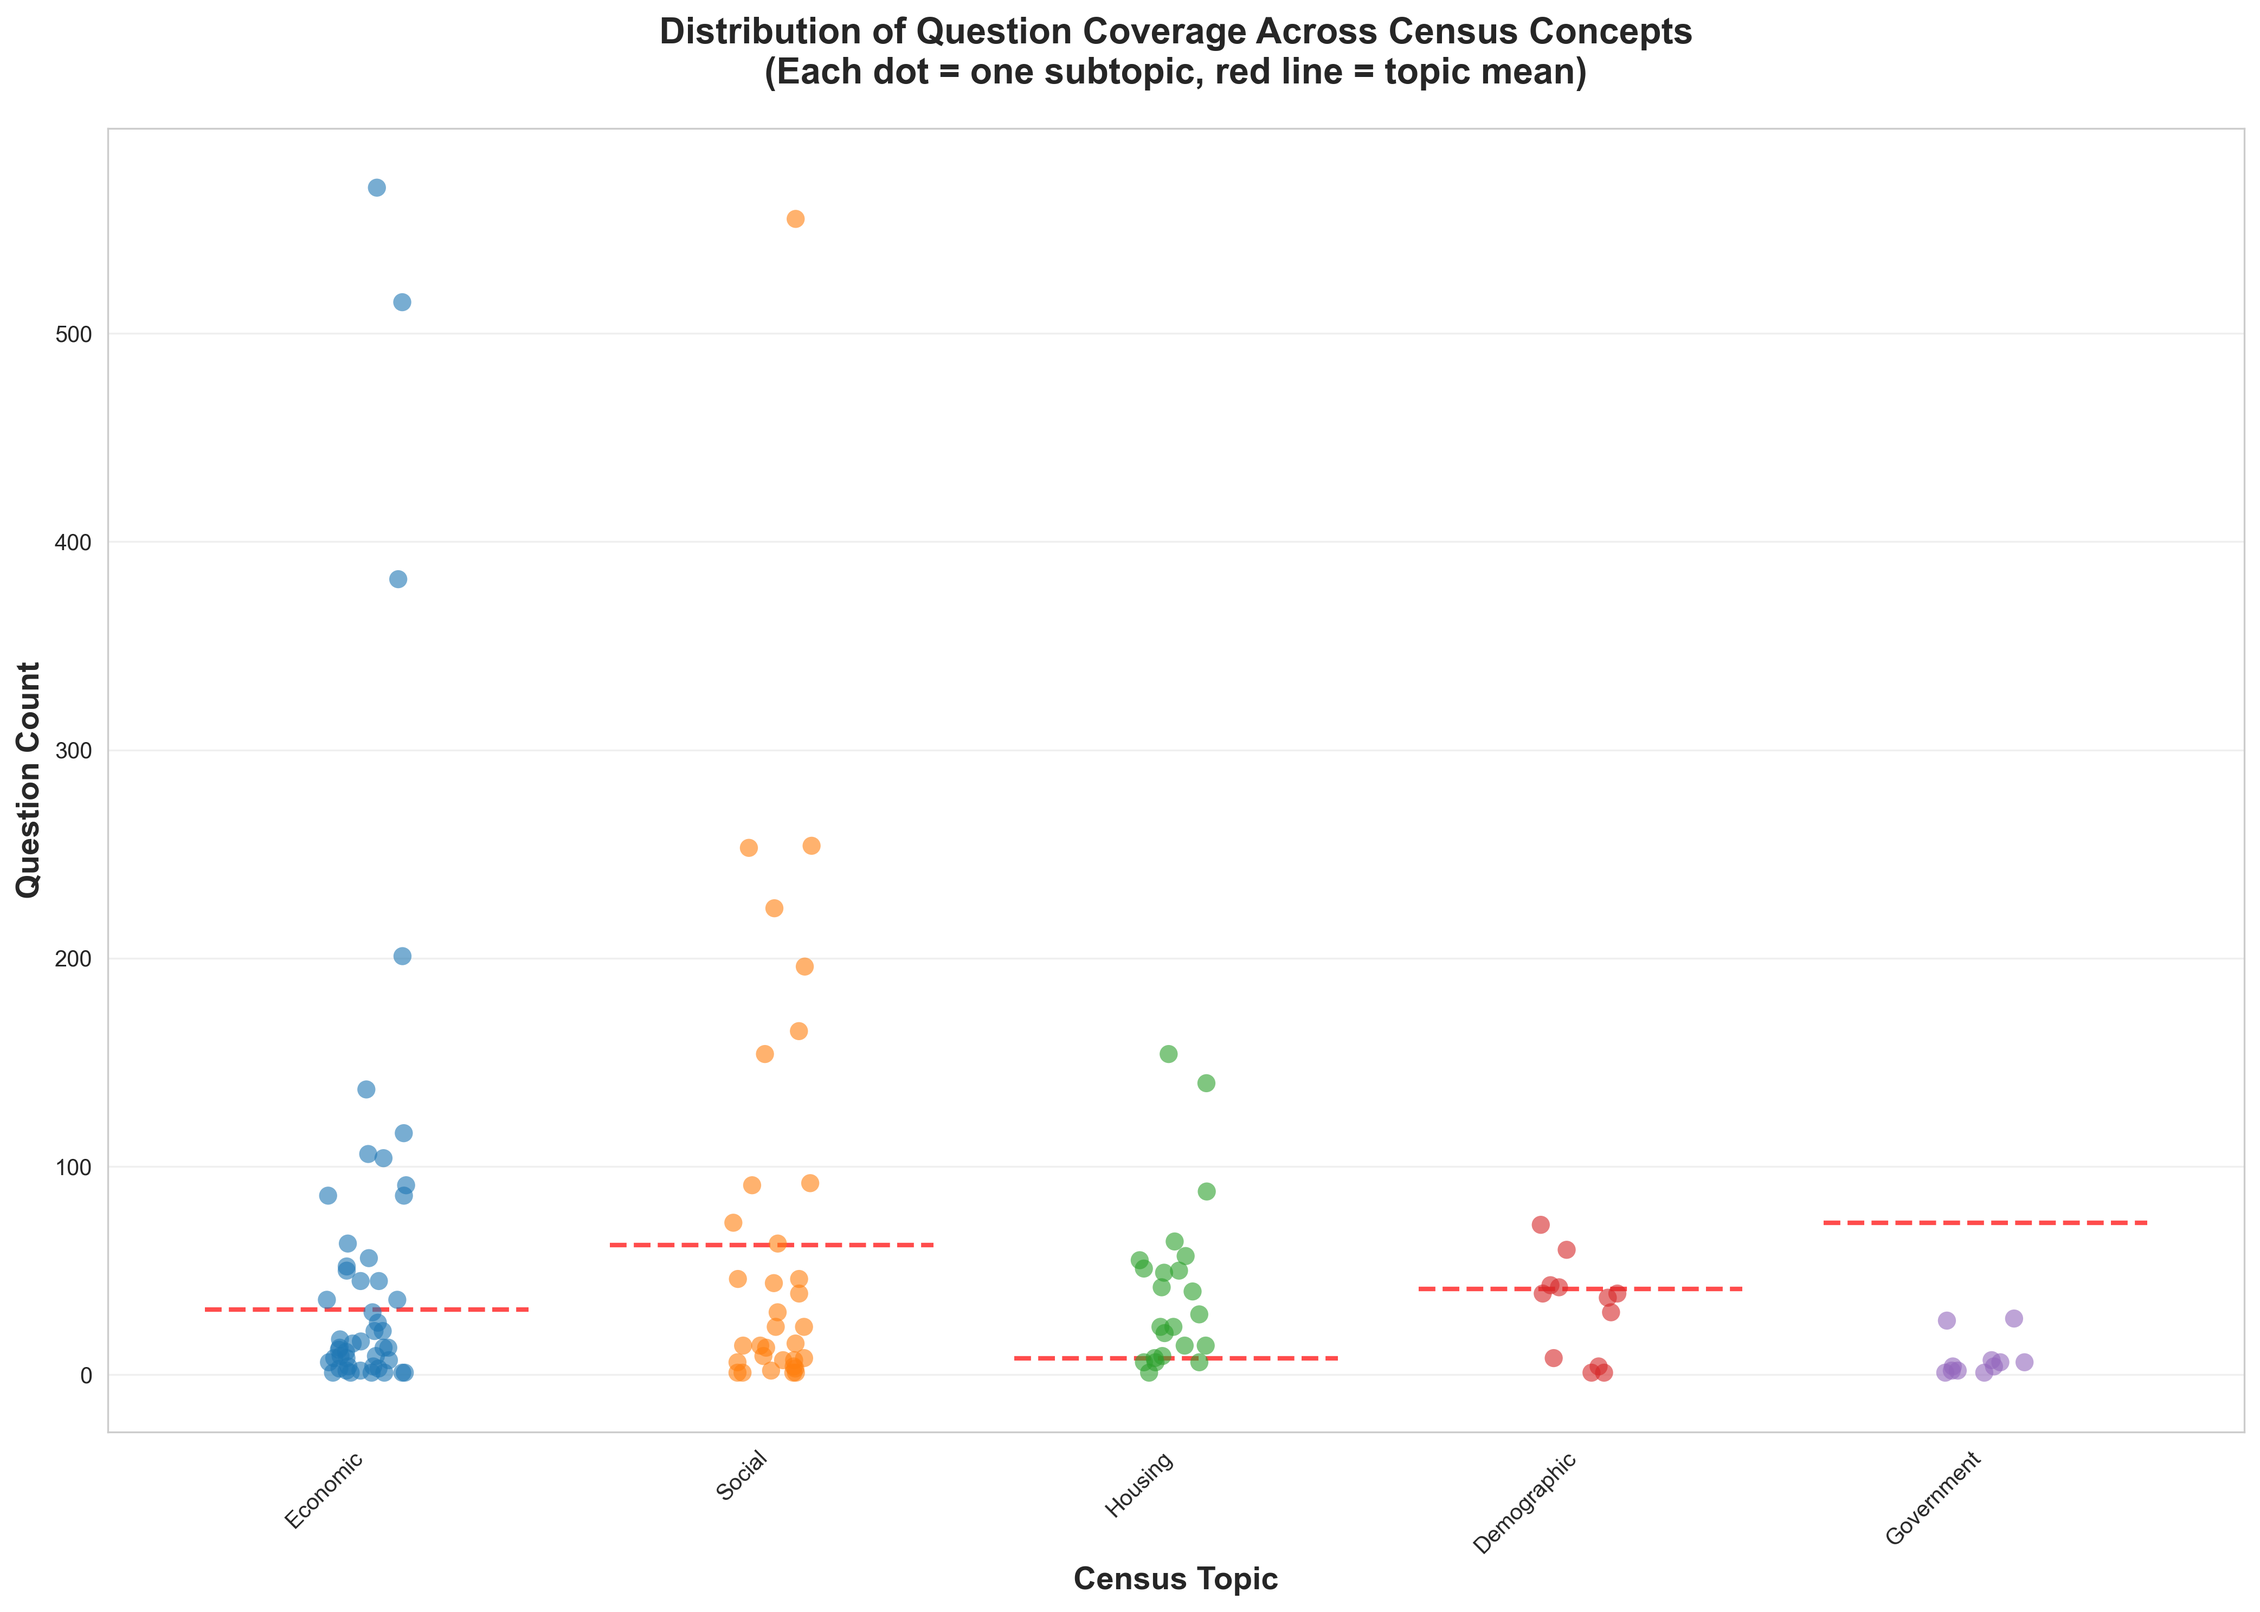
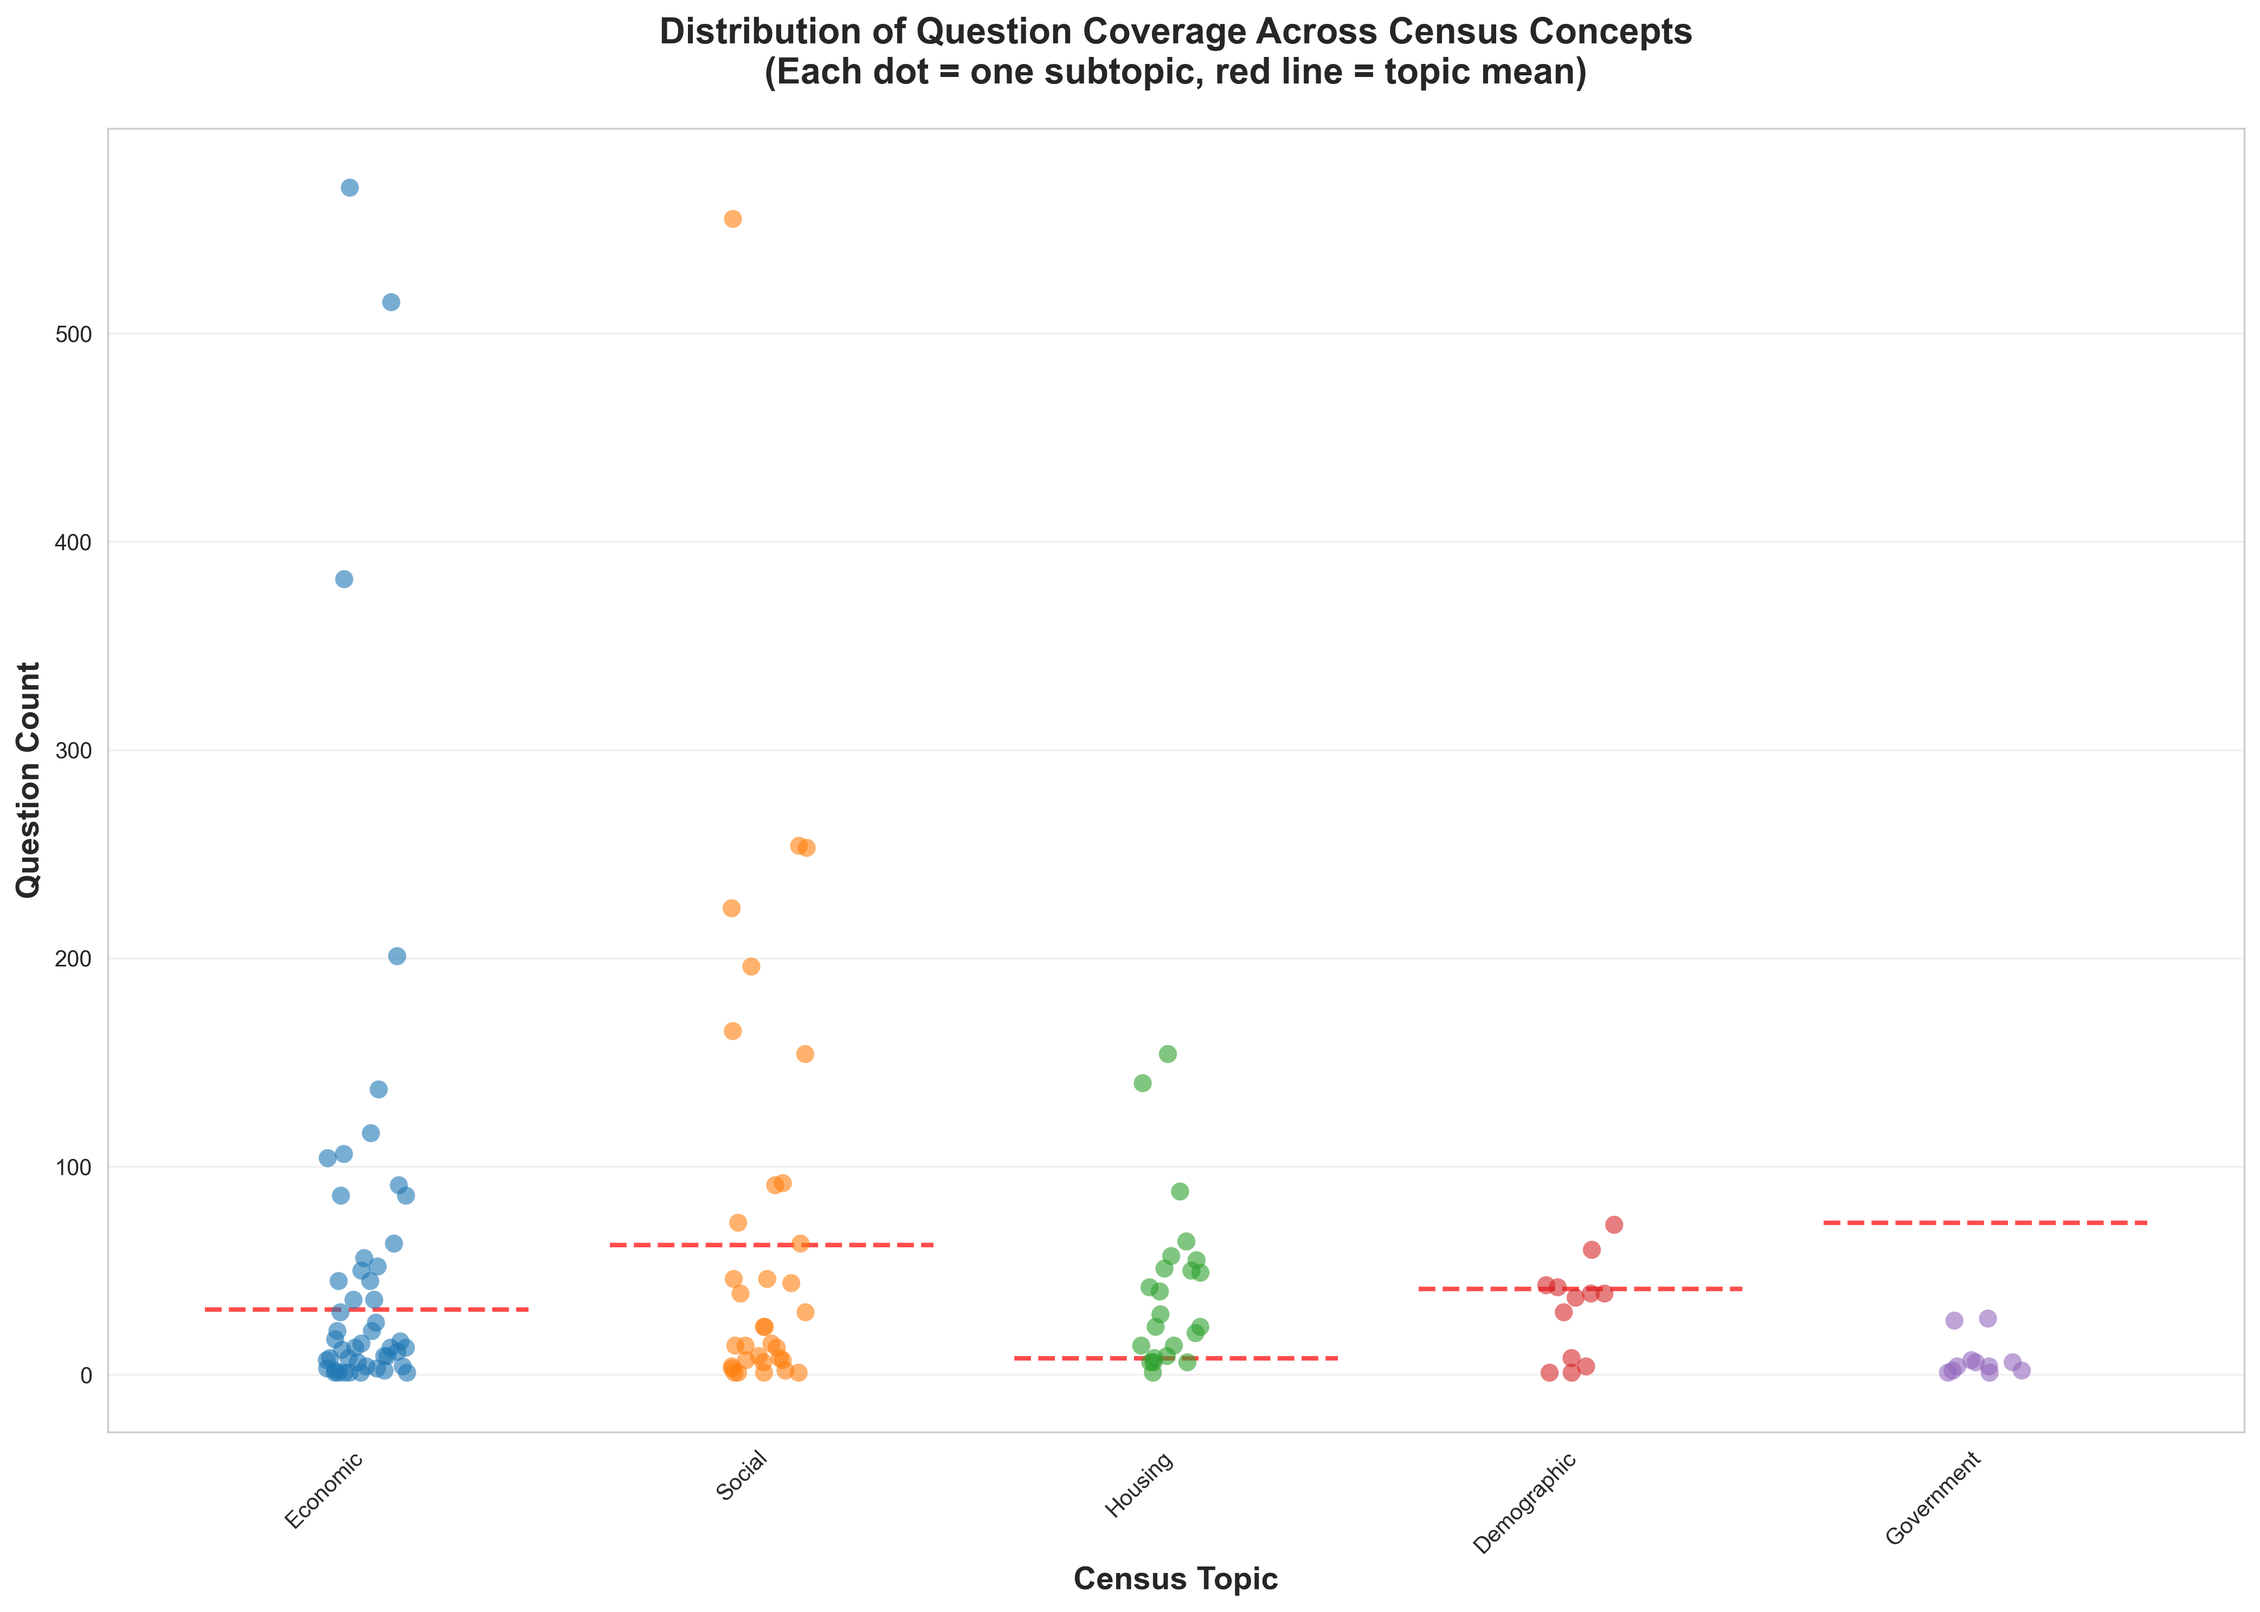
administrative report section changes

diff --git a/src/assemble_report.py b/src/assemble_report.py
@@ -3,15 +3,18 @@
 Assemble the complete report from individual sections.
 
 This script:
-1. Regenerates required figures from source data
+1. Regenerates required figures from source data (unless --skip-figures)
 2. Copies figures to final_report/figures/
 3. Copies data files to final_report/data/
 4. Assembles all sections into FULL_REPORT.md
 
-Run from src/ directory:
-    python assemble_report.py
+Usage:
+    python assemble_report.py              # Full build (regenerate figures)
+    python assemble_report.py --skip-figures   # Text-only (skip figure regeneration)
+    python assemble_report.py -s           # Same as --skip-figures
 """
 
+import argparse
 import shutil
 import subprocess
 import sys
@@ -222,11 +225,31 @@ def assemble_report():
 
 def main():
     """Run complete report build."""
+    parser = argparse.ArgumentParser(
+        description='Assemble the Federal Survey Concept Mapper report.',
+        formatter_class=argparse.RawDescriptionHelpFormatter,
+        epilog="""
+Examples:
+  python assemble_report.py                # Full build
+  python assemble_report.py --skip-figures # Text edits only, skip figure regen
+        """
+    )
+    parser.add_argument(
+        '-s', '--skip-figures',
+        action='store_true',
+        help='Skip figure regeneration (faster for text-only edits)'
+    )
+    args = parser.parse_args()
+    
     print("=" * 70)
     print("FEDERAL SURVEY CONCEPT MAPPING - REPORT BUILD")
     print("=" * 70)
     
-    scripts_ok = run_figure_scripts()
+    if args.skip_figures:
+        print("\n[--skip-figures] Skipping figure regeneration")
+        scripts_ok = True
+    else:
+        scripts_ok = run_figure_scripts()
     figures_ok = copy_figures()
     data_ok = copy_data_files()
     sections_ok, char_count = assemble_report()

diff --git a/final_report/FULL_REPORT.md b/final_report/FULL_REPORT.md
@@ -325,7 +325,7 @@ LLMs also have important limitations for this task:
 
 **Hallucination Risk**: LLMs occasionally generate plausible-sounding but incorrect information. This risk is managed through cross-validation (dual-model approach) and confidence scoring.
 
-**Inconsistency**: LLMs with temperature > 0 produce non-deterministic outputs. We set temperature = 0.3 for reduced variability while preserving some diversity for arbitration.
+**Inconsistency**: LLMs can produce non-deterministic outputs. For models that support temperature control, setting temperature = 0 (or as low as permitted) is recommended for classification tasks to maximize consistency and reproducibility. However, the models used in this study—GPT-5-mini (a Mixture of Experts architecture where the temperature parameter was deprecated) and Claude Haiku 4.5 (which does not expose temperature control)—do not offer this option. We used default API parameters for both models, accepting that some output variability may occur across runs.
 
 **Cost**: Commercial LLM APIs charge per token processed. Our full pipeline cost ~$15, a fraction of manual expert review cost but non-trivial for very large datasets.
 

diff --git a/final_report/sections/03_background.md b/final_report/sections/03_background.md
@@ -114,7 +114,7 @@ LLMs also have important limitations for this task:
 
 **Hallucination Risk**: LLMs occasionally generate plausible-sounding but incorrect information. This risk is managed through cross-validation (dual-model approach) and confidence scoring.
 
-**Inconsistency**: LLMs with temperature > 0 produce non-deterministic outputs. We set temperature = 0.3 for reduced variability while preserving some diversity for arbitration.
+**Inconsistency**: LLMs can produce non-deterministic outputs. For models that support temperature control, setting temperature = 0 (or as low as permitted) is recommended for classification tasks to maximize consistency and reproducibility. However, the models used in this study—GPT-5-mini (a Mixture of Experts architecture where the temperature parameter was deprecated) and Claude Haiku 4.5 (which does not expose temperature control)—do not offer this option. We used default API parameters for both models, accepting that some output variability may occur across runs.
 
 **Cost**: Commercial LLM APIs charge per token processed. Our full pipeline cost ~$15, a fraction of manual expert review cost but non-trivial for very large datasets.
 
